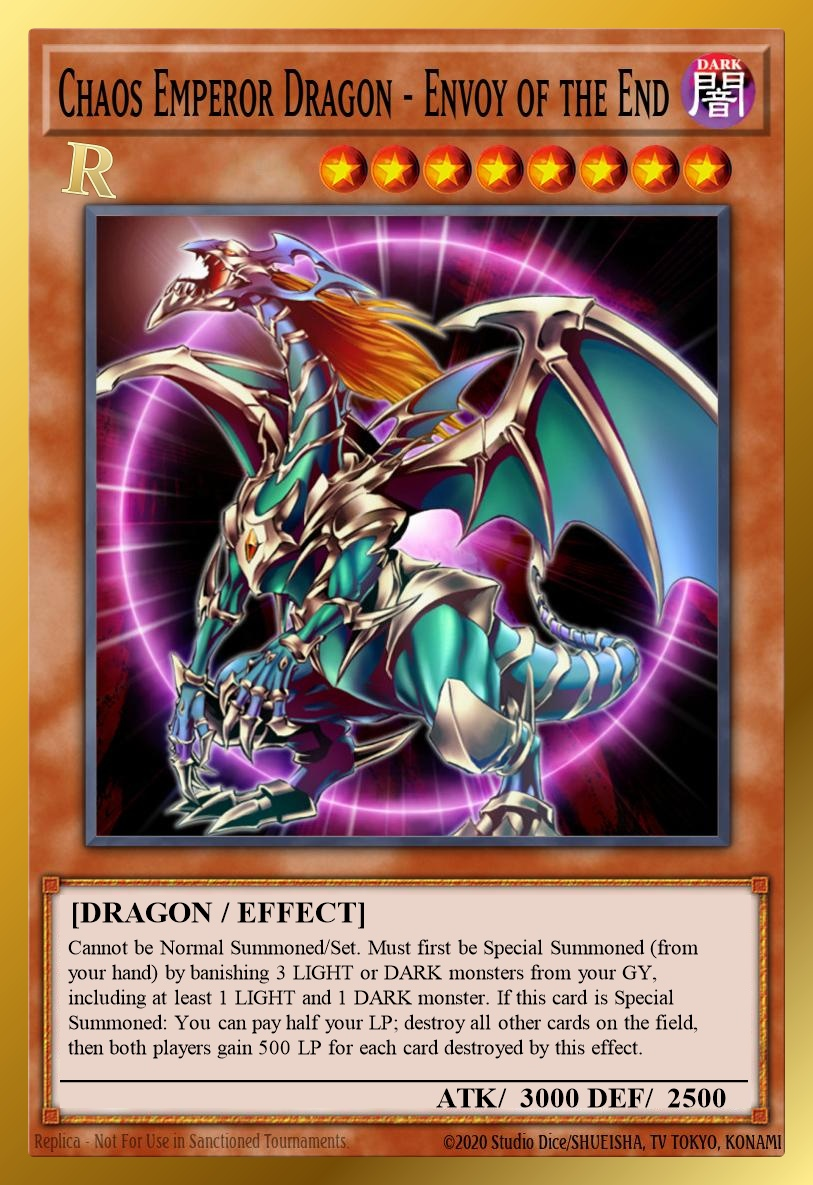
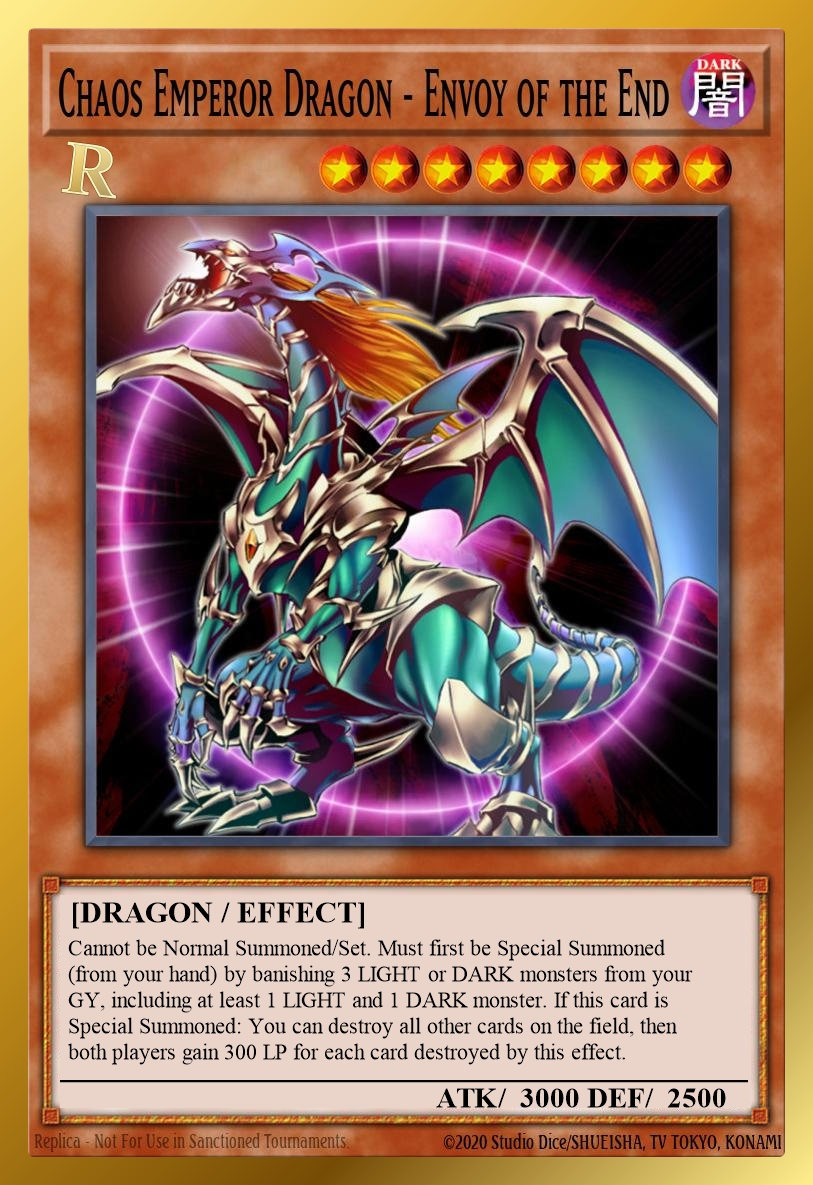
envoy of the end, no more LP cost, only heal by 300LP/card

Changed region(s): [[0.0615, 0.7806, 0.861, 0.9055]]

diff --git a/Redux/scripts/build-cards-unofficial-cdb.js b/Redux/scripts/build-cards-unofficial-cdb.js
@@ -106,7 +106,7 @@ module.exports = function buildCardsUnofficialDb({ reduxRoot }) {
   const chaosEmperorDragonTextResult = db
     .prepare("UPDATE texts SET desc = ?, str2 = ? WHERE id = ?")
     .run(
-      "Cannot be Normal Summoned/Set. Must first be Special Summoned (from your hand) by banishing 3 LIGHT or DARK monsters from your GY, including at least 1 LIGHT and 1 DARK monster. If this card is Special Summoned: You can pay half your LP; destroy all other cards on the field, then both players gain 500 LP for each card destroyed by this effect.",
+      "Cannot be Normal Summoned/Set. Must first be Special Summoned (from your hand) by banishing 3 LIGHT or DARK monsters from your GY, including at least 1 LIGHT and 1 DARK monster. If this card is Special Summoned: You can destroy all other cards on the field, then both players gain 300 LP for each card destroyed by this effect.",
       "Destroy other cards and gain LP",
       511000819,
     ); // Chaos Emperor Dragon - Envoy of the End (Pre-Errata)

diff --git a/README.md b/README.md
@@ -76,7 +76,7 @@ Redux Limits: `0` = forbidden; `1` = limited; `2` = semi-limited; `3` = unlimite
 | `1` [Black Luster Soldier - Envoy of the Beginning](https://yugioh.fandom.com/wiki/Black_Luster_Soldier_-_Envoy_of_the_Beginning) | ⬇ Face-up banish only; second attack deals no damage |
 | `1` [Brionac, Dragon of the Ice Barrier](https://yugioh.fandom.com/wiki/Brionac,_Dragon_of_the_Ice_Barrier) | ⬇ Once per turn |
 | `1` [Change of Heart](https://yugioh.fandom.com/wiki/Change_of_Heart) | ⬇ Discard 1; stolen monster: no battle damage while on field |
-| `1` [Chaos Emperor Dragon - Envoy of the End](https://yugioh.fandom.com/wiki/Chaos_Emperor_Dragon_-_Envoy_of_the_End) | 🔄 Banish 3 LIGHT or DARK monsters (at least 1 each); summon effect with half LP cost; destroy other cards; both gain 500 LP per card |
+| `1` [Chaos Emperor Dragon - Envoy of the End](https://yugioh.fandom.com/wiki/Chaos_Emperor_Dragon_-_Envoy_of_the_End) | 🔄 Banish 3 LIGHT or DARK monsters (at least 1 each); summon effect has no LP cost; destroy other cards; both gain 300 LP per card |
 | `1` [Cyber-Stein](https://yugioh.fandom.com/wiki/Cyber-Stein) | 🔄 Summon/flip trigger; no LP cost; Fusion monster: Defense Position & 0 ATK; Level 7+ effects negated |
 | `1` [Dark Hole](https://yugioh.fandom.com/wiki/Dark_Hole) | ⬇ No battle damage |
 | `1` [Dark Magician of Chaos](https://yugioh.fandom.com/wiki/Dark_Magician_of_Chaos) | ⬇ Once per turn |
